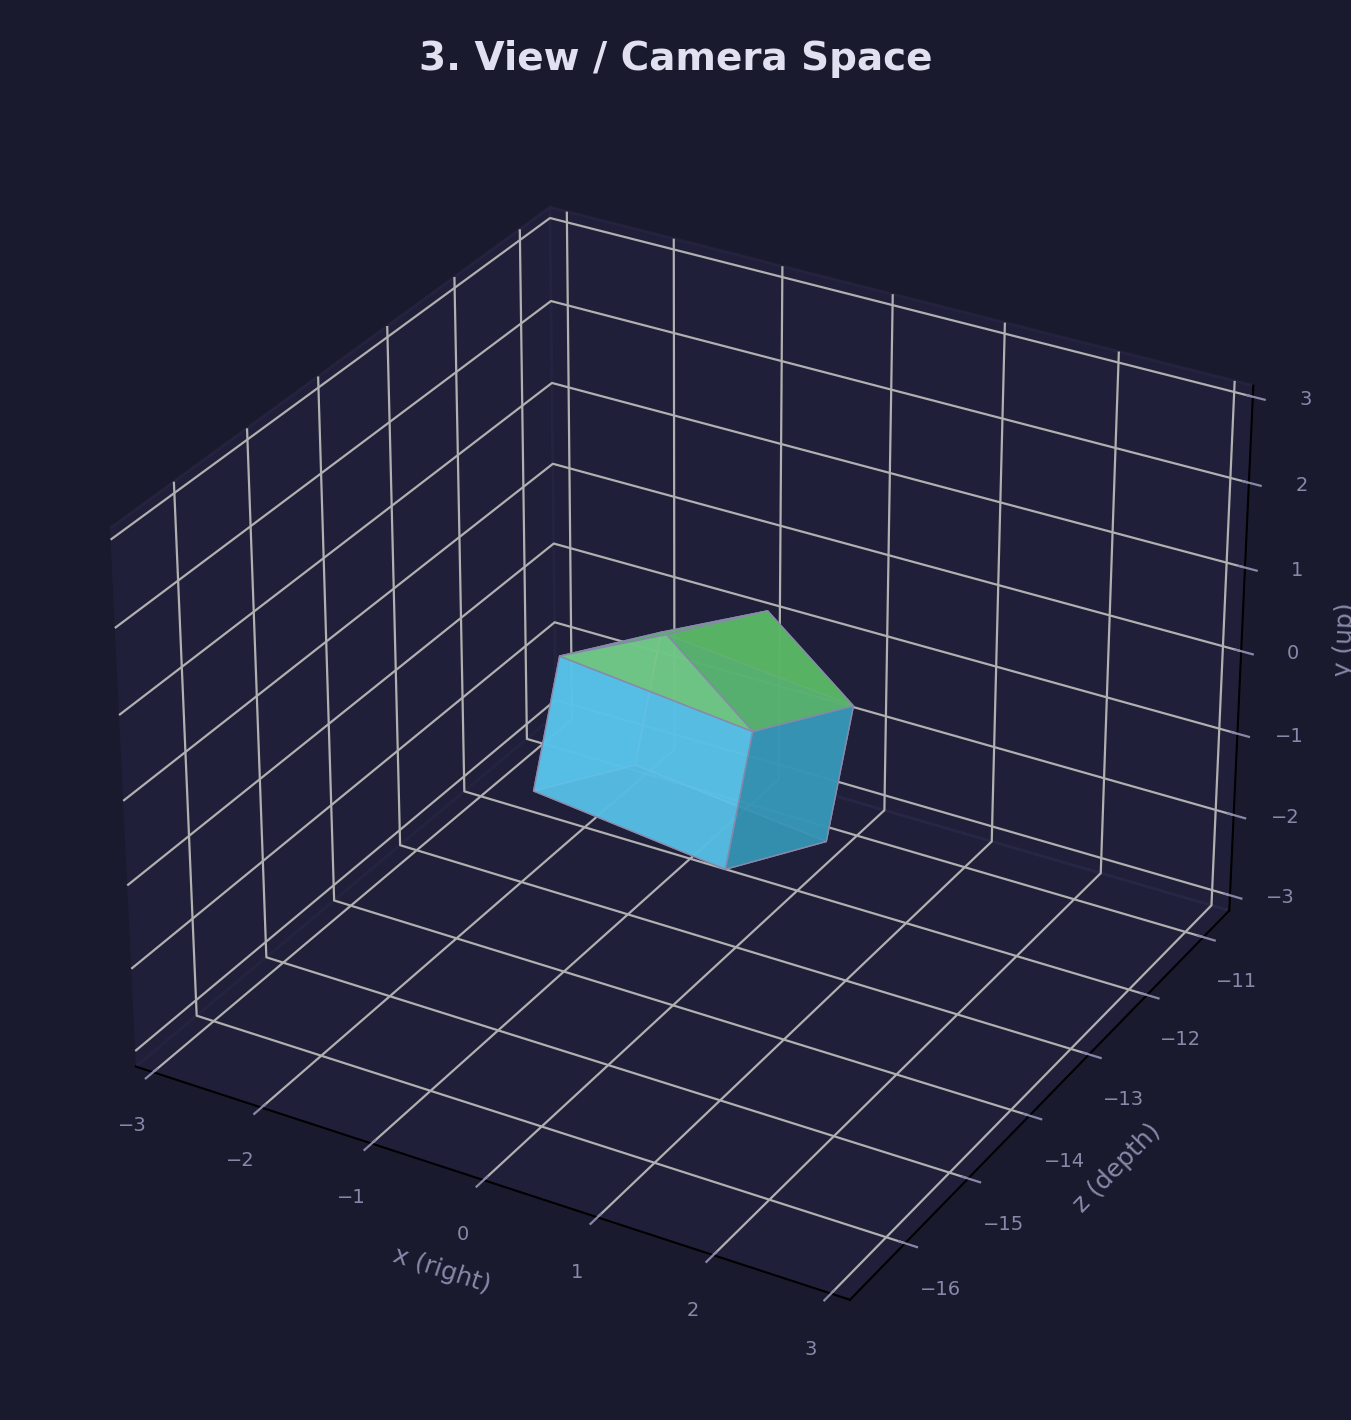
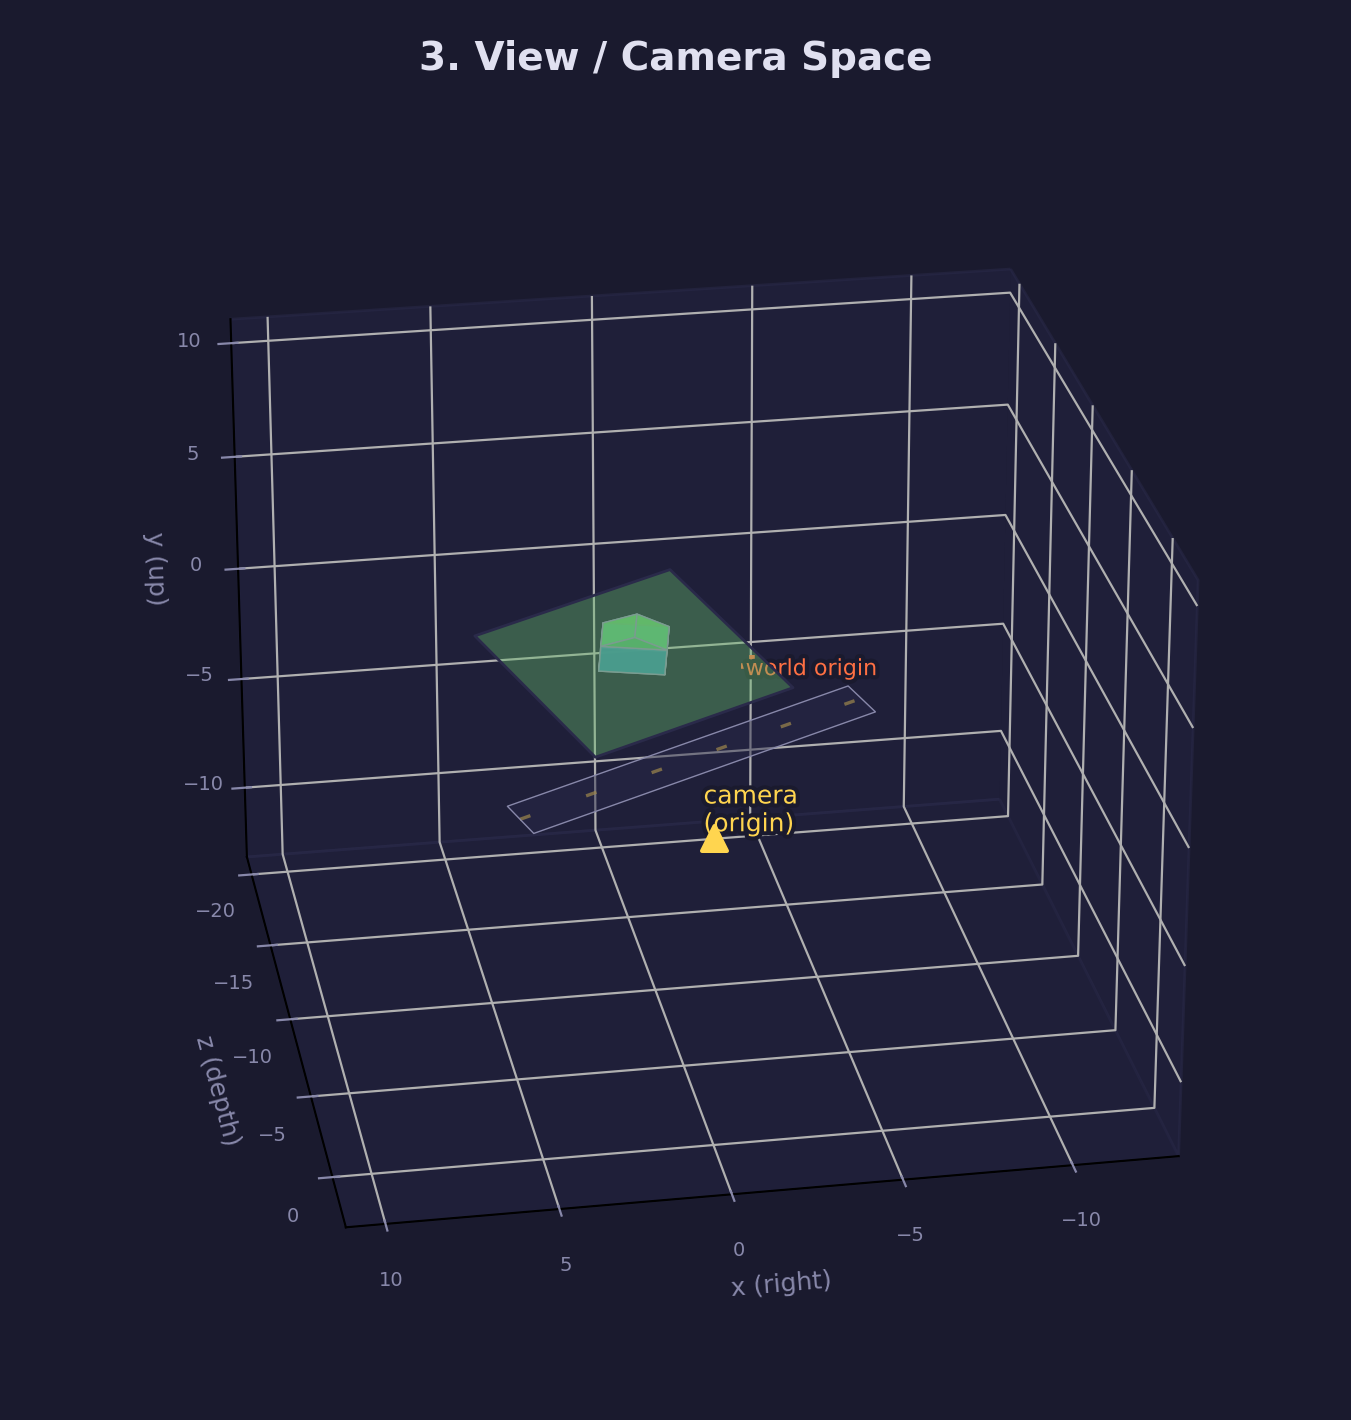
Enhance view space diagram with ground plane, road, and world origin (#110)
* Add full scene to view/camera space diagram

The view space diagram previously only showed the house with a tight
grid, making it indistinguishable from the local space diagram. Now it
includes the ground plane, road, and world origin — all transformed
through the view matrix — so learners can see the same scene from the
world space diagram re-expressed relative to the camera at the origin.

https://claude.ai/code/session_01AGiQyVxJrWT3WK4kVqsp9S

* Adjust view angle to look from camera origin toward scene

Position the matplotlib viewpoint behind the camera origin looking
forward, so the diagram reads as "what the camera sees" rather than
a third-person view of the coordinate system.

https://claude.ai/code/session_01AGiQyVxJrWT3WK4kVqsp9S

---------

diff --git a/scripts/forge_diagrams/math_diagrams.py b/scripts/forge_diagrams/math_diagrams.py
@@ -4415,17 +4415,106 @@ def diagram_coord_world_space():
 
 
 def diagram_coord_view_space():
-    """House re-expressed relative to the camera at the origin."""
+    """Whole scene re-expressed relative to the camera at the origin."""
     from mpl_toolkits.mplot3d import Axes3D  # noqa: F401
+    from mpl_toolkits.mplot3d.art3d import Poly3DCollection
 
-    fig = plt.figure(figsize=(7, 7), facecolor=STYLE["bg"])
+    fig = plt.figure(figsize=(8, 7), facecolor=STYLE["bg"])
     ax: Axes3D = fig.add_subplot(111, projection="3d")  # type: ignore[assignment]
 
-    _, view_verts, _, _, _, _ = _coord_pipeline()
-    mpl_verts = _gpu_to_mpl(view_verts)
-    _add_house_3d(ax, mpl_verts)
+    # --- Transform house into view space ---
+    world_verts, view_verts, _, _, _, _ = _coord_pipeline()
+    mpl_house = _gpu_to_mpl(view_verts)
+    _add_house_3d(ax, mpl_house)
 
-    # Camera at origin (mpl coords)
+    # --- Reconstruct the same ground plane used in the world-space diagram,
+    #     then transform it into view space ---
+    hc = world_verts.mean(axis=0)  # house centre in GPU world coords
+    gnd_size = 7.0
+    ghs = gnd_size / 2.0
+    # Ground quad corners in GPU world space (y = 0 is the ground)
+    ground_world = np.array(
+        [
+            [hc[0] - ghs, 0.0, hc[2] - ghs],
+            [hc[0] + ghs, 0.0, hc[2] - ghs],
+            [hc[0] + ghs, 0.0, hc[2] + ghs],
+            [hc[0] - ghs, 0.0, hc[2] + ghs],
+        ]
+    )
+    ground_view = _xf3(ground_world, _VIEW_MAT)
+    ground_mpl = _gpu_to_mpl(ground_view)
+    col_gnd = Poly3DCollection(
+        [ground_mpl.tolist()],
+        facecolors=[STYLE["accent3"]],
+        edgecolors=[STYLE["grid"]],
+        alpha=0.40,
+    )
+    ax.add_collection3d(col_gnd)
+
+    # --- Road (same as world-space diagram, transformed to view space) ---
+    road_x0, road_x1 = -2.0, 10.0
+    road_z = hc[2] + 5.0  # GPU z centre of road
+    road_hw = 1.5 / 2.0
+    road_world = np.array(
+        [
+            [road_x0, 0.0, road_z - road_hw],
+            [road_x1, 0.0, road_z - road_hw],
+            [road_x1, 0.0, road_z + road_hw],
+            [road_x0, 0.0, road_z + road_hw],
+        ]
+    )
+    road_view = _xf3(road_world, _VIEW_MAT)
+    road_mpl = _gpu_to_mpl(road_view)
+    col_road = Poly3DCollection(
+        [road_mpl.tolist()],
+        facecolors=[STYLE["grid"]],
+        edgecolors=[STYLE["text_dim"]],
+        linewidths=0.5,
+        alpha=0.45,
+    )
+    ax.add_collection3d(col_road)
+
+    # Road centre dashes
+    n_dash = 6
+    dash_xs_world = np.linspace(road_x0 + 0.3, road_x1 - 0.3, n_dash)
+    for xd in dash_xs_world:
+        seg_world = np.array([[xd, 0.001, road_z], [xd + 0.25, 0.001, road_z]])
+        seg_view = _xf3(seg_world, _VIEW_MAT)
+        seg_mpl = _gpu_to_mpl(seg_view)
+        ax.plot(
+            seg_mpl[:, 0],
+            seg_mpl[:, 1],
+            seg_mpl[:, 2],
+            color=STYLE["warn"],
+            lw=1.2,
+            alpha=0.7,
+        )
+
+    # --- World origin transformed into view space ---
+    origin_view = _xf3(np.array([[0.0, 0.0, 0.0]]), _VIEW_MAT)
+    origin_mpl = _gpu_to_mpl(origin_view).flatten()
+    ax.scatter(
+        [origin_mpl[0]],
+        [origin_mpl[1]],
+        [origin_mpl[2]],  # type: ignore[arg-type]
+        color=STYLE["accent2"],
+        s=60,
+        marker="+",
+        linewidths=2,
+        zorder=10,
+        depthshade=False,
+    )
+    ax.text(
+        origin_mpl[0] + 0.3,
+        origin_mpl[1] + 0.6,
+        origin_mpl[2],
+        "world origin",
+        color=STYLE["accent2"],
+        fontsize=8,
+        path_effects=[pe.withStroke(linewidth=3, foreground=STYLE["bg"])],
+    )
+
+    # --- Camera at origin (this IS view space, so camera sits at [0,0,0]) ---
     ax.scatter(
         [0],
         [0],
@@ -4441,14 +4530,20 @@ def diagram_coord_view_space():
         0.3,
         0.0,
         0.3,
-        "camera",
+        "camera\n(origin)",
         color=STYLE["warn"],
         fontsize=9,
         path_effects=[pe.withStroke(linewidth=3, foreground=STYLE["bg"])],
     )
 
-    _set_equal_3d(ax, mpl_verts, pad=2.0)
-    ax.view_init(elev=30, azim=-60)
+    # --- Frame the whole scene (house + ground + road + camera + origin) ---
+    all_pts = np.vstack(
+        [mpl_house, ground_mpl, road_mpl, origin_mpl.reshape(1, 3), [[0, 0, 0]]]
+    )
+    _set_equal_3d(ax, all_pts, pad=3.0)
+    # Position the viewpoint roughly behind and above the camera origin,
+    # looking toward the scene (camera looks down -Z → mpl -Y).
+    ax.view_init(elev=25, azim=80)
     _style_3d(
         ax,
         "3. View / Camera Space",
